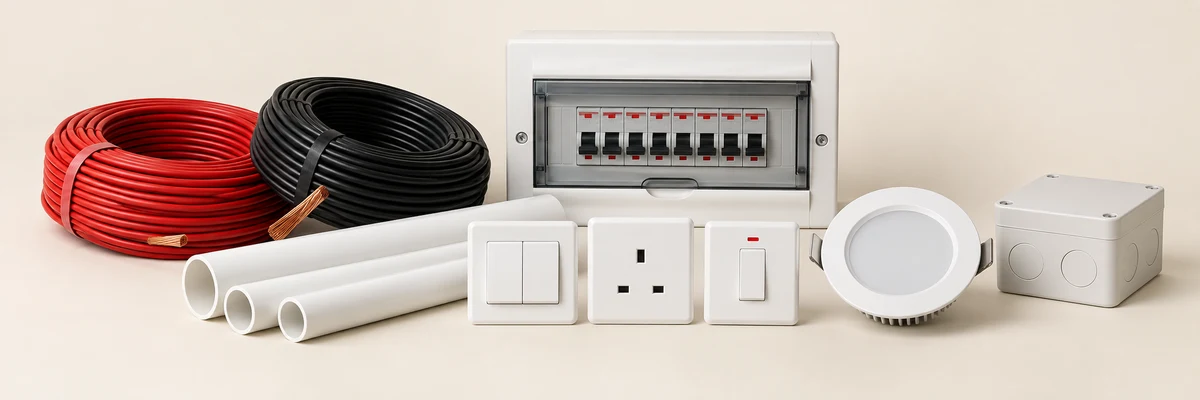
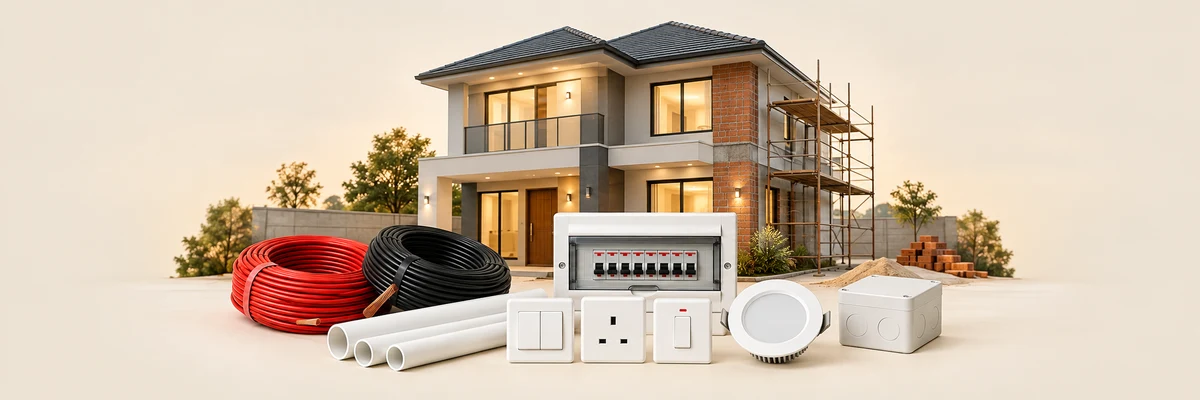
Blend a lit construction home into the hero and simplify brand prompts

diff --git a/src/routes/index.tsx b/src/routes/index.tsx
@@ -18,7 +18,10 @@ export const Route = createFileRoute("/")({
         content:
           "Direct-from-factory electrical packages for home construction. Earn cashback by spotting new builds near you.",
       },
-      { property: "og:title", content: "ElectroSpot — Factory-Direct Wiring Packages & Lead Rewards" },
+      {
+        property: "og:title",
+        content: "ElectroSpot — Factory-Direct Wiring Packages & Lead Rewards",
+      },
       {
         property: "og:description",
         content: "Bundled wiring packages for homeowners and cashback rewards for lead spotters.",
@@ -34,13 +37,12 @@ function Landing() {
   const [brandId, setBrandId] = useState<string | null>(null);
   const brand = BRANDS.find((item) => item.id === brandId);
 
-
   return (
     <div className="min-h-screen">
       <SiteHeader />
 
       <main>
-        <section className="border-b border-border bg-[#f5f2eb]">
+        <section className="border-b border-border bg-[#ece4d8]">
           <div className="mx-auto flex max-w-6xl flex-col gap-4 px-4 py-5 md:flex-row md:items-center md:gap-8">
             <div className="min-w-0 flex-1">
               <h1 className="text-2xl leading-tight font-semibold text-primary sm:text-3xl">
@@ -48,11 +50,6 @@ function Landing() {
                 <span className="block text-accent">+ earn rewards.</span>
               </h1>
               <div className="mt-4 flex flex-wrap gap-2">
-                <Button asChild size="sm" variant="secondary">
-                  <a href="#brands">
-                    Choose a brand <ArrowRight className="size-4" />
-                  </a>
-                </Button>
                 <Button asChild size="sm" variant="outline" className="bg-background/90">
                   <Link to="/spotter">Earn rewards</Link>
                 </Button>
@@ -60,10 +57,15 @@ function Landing() {
             </div>
             <img
               src={heroImg}
-              alt="Electrical wire coils, PVC conduits, circuit breakers, switches, sockets, LED light and junction box"
+              alt="House under construction with warm lights and scaffolding, behind electrical wires, conduits, breakers, switches and lighting supplies"
               width={1200}
               height={400}
-              className="h-44 w-full shrink-0 rounded-xl object-contain md:w-1/2"
+              className="h-44 w-full shrink-0 object-contain md:w-1/2"
+              style={{
+                maskImage:
+                  "linear-gradient(to right, transparent, black 4%, black 96%, transparent), linear-gradient(to bottom, transparent, black 6%, black 94%, transparent)",
+                maskComposite: "intersect",
+              }}
             />
           </div>
         </section>
@@ -73,7 +75,9 @@ function Landing() {
             <div className="flex flex-wrap items-end justify-between gap-2">
               <div>
                 <p className="text-xs font-semibold uppercase text-accent">Available brands</p>
-                <h2 className="mt-1 text-xl font-semibold text-primary">Choose a brand for its products</h2>
+                <h2 className="mt-1 text-xl font-semibold text-primary">
+                  Choose a brand for its products
+                </h2>
               </div>
               {brand && (
                 <Button asChild>
@@ -84,7 +88,11 @@ function Landing() {
               )}
             </div>
 
-            <div className="mt-3 grid grid-cols-2 gap-2 sm:grid-cols-3 lg:grid-cols-5" role="list" aria-label="Available electrical brands">
+            <div
+              className="mt-3 grid grid-cols-2 gap-2 sm:grid-cols-3 lg:grid-cols-5"
+              role="list"
+              aria-label="Available electrical brands"
+            >
               {BRANDS.map((item) => (
                 <Button
                   key={item.id}
@@ -103,30 +111,37 @@ function Landing() {
 
             <div id="brand-products" aria-live="polite">
               {brand ? (
-                <div className="mt-3 grid gap-2 sm:grid-cols-2 lg:grid-cols-3" role="region" aria-label={`${brand.name} products`}>
-              {PRODUCTS.slice(0, 6).map((product) => (
-                <Card key={product.id} className="border-border shadow-none transition-colors hover:border-accent">
-                  <CardContent className="flex items-center gap-3 p-3">
-                    <CatalogImage src={product.image} alt={product.name} className="size-14" />
-                    <div className="min-w-0 flex-1">
-                      <h3 className="text-sm leading-snug font-semibold text-primary">{product.name}</h3>
-                      <p className="mt-0.5 text-xs text-muted-foreground">{product.spec}</p>
-                      <div className="mt-1 flex flex-wrap items-baseline gap-x-2">
-                        <span className="text-xs text-muted-foreground line-through">
-                          {inr(brandPrice(product.retail, brand.factor))}
-                        </span>
-                        <span className="text-sm font-semibold text-primary">
-                          {inr(brandPrice(product.ours, brand.factor))}
-                        </span>
-                      </div>
-                    </div>
-                  </CardContent>
-                </Card>
-              ))}
+                <div
+                  className="mt-3 grid gap-2 sm:grid-cols-2 lg:grid-cols-3"
+                  role="region"
+                  aria-label={`${brand.name} products`}
+                >
+                  {PRODUCTS.slice(0, 6).map((product) => (
+                    <Card
+                      key={product.id}
+                      className="border-border shadow-none transition-colors hover:border-accent"
+                    >
+                      <CardContent className="flex items-center gap-3 p-3">
+                        <CatalogImage src={product.image} alt={product.name} className="size-14" />
+                        <div className="min-w-0 flex-1">
+                          <h3 className="text-sm leading-snug font-semibold text-primary">
+                            {product.name}
+                          </h3>
+                          <p className="mt-0.5 text-xs text-muted-foreground">{product.spec}</p>
+                          <div className="mt-1 flex flex-wrap items-baseline gap-x-2">
+                            <span className="text-xs text-muted-foreground line-through">
+                              {inr(brandPrice(product.retail, brand.factor))}
+                            </span>
+                            <span className="text-sm font-semibold text-primary">
+                              {inr(brandPrice(product.ours, brand.factor))}
+                            </span>
+                          </div>
+                        </div>
+                      </CardContent>
+                    </Card>
+                  ))}
                 </div>
-              ) : (
-                <p className="mt-4 text-sm text-muted-foreground">Select a brand above to see its products and prices.</p>
-              )}
+              ) : null}
             </div>
           </div>
         </section>

diff --git a/src/assets/electrical-products-hero.md b/src/assets/electrical-products-hero.md
@@ -1,9 +1,9 @@
-# Electrical products hero
+# Electrical products and construction hero
 
-Generated using the built-in image-generation tool. This is a generic catalog illustration, not a manufacturer-specific product photograph.
+Created with the built-in image-generation tool by editing the original product arrangement. This is an illustrative scene, not a manufacturer-specific photograph.
 
-Saved asset: `src/assets/electrical-products-hero.webp` (1200 × 400, 39,694 bytes). Optimized from the generated original; displayed with `object-contain` to preserve all items.
+Saved asset: `src/assets/electrical-products-hero.webp` (1200 × 400, 59,210 bytes). Displayed with `object-contain` and softly masked edges against a matching beige background. The house and electrical products remain visible in the compact banner.
 
-## Generation prompt
+## Final edit prompt
 
-Use case: product-mockup. Create a premium photorealistic electrical supplies catalog photograph for a compact website hero. Wide horizontal 3:1 composition on a warm ivory seamless studio background. Show a carefully arranged complete group of home electrical installation supplies: two neat copper-wire coils with red and black insulation, short white PVC conduit pipes laid horizontally, a compact white distribution board with circuit breakers, white modular switches and socket plates, one round LED downlight and a small junction box. Products arranged in one low horizontal grouping, each fully inside the frame with generous 10 percent safety margins on every edge, crisp and easily recognizable at small banner size. Soft natural studio lighting, realistic materials, subtle grounding shadows, refined warm-neutral palette. No house, no people, no text, no logos, no watermark. No cropped items, no sprawling tall composition.
+Use case: compositing. Edit the supplied electrical-products hero image for ElectroSpot. Keep the recognizable electrical product assortment: red and black wire coils, white conduits, distribution board and breakers, switch/socket plates, LED downlight and junction box. Add a tasteful photorealistic modern two-storey home under construction BEHIND the products, with a small section of exposed brickwork, subtle scaffolding and warm illuminated windows and porch lights. The home and products should form one coherent polished architectural/catalog scene: house in the back, supplies neatly arranged across the foreground, all completely visible. Rebalance and slightly reduce the product grouping to fit the house without hiding any category. Wide 3:1 banner composition with compact vertical silhouette, generous empty warm ivory/beige margins on every edge; background edges should be seamless pale beige (#ece4d8) so the photo blends into a website background. Soft early-evening warm lighting but a light background, crisp realistic materials. No dark full landscape, no people, no text, no logos, no watermark. Absolutely no cropped roof, cropped house, or cropped products. This must stay legible at 528 by 176 pixels.
